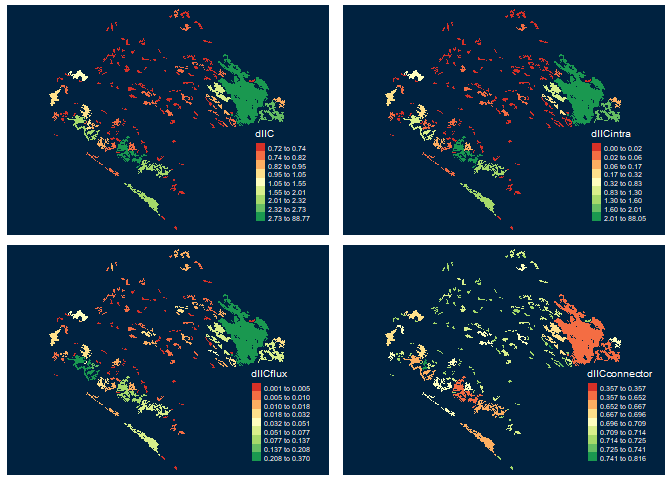
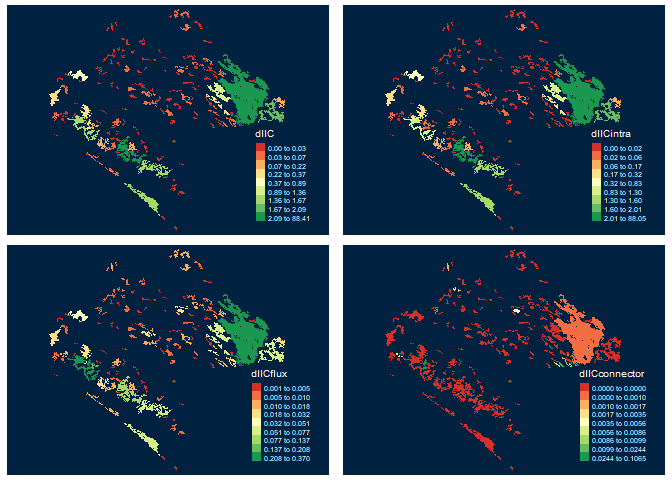
installation issue fixed

diff --git a/README.md b/README.md
@@ -50,11 +50,12 @@ Analyzing landscape connectivity.
 
 ## Installation
 
--   Depends: R (&gt; 4.0.0), igraph (&gt;= 1.2.6)
--   Pre-install
-    [Rtools](https://cran.r-project.org/bin/windows/Rtools/).
--   Pre-install devtools (<code>install.packages(“devtools”)</code>) and
-    remotes (<code>install.packages(“remotes”)</code>) packages.
+- Depends: R (\> 4.0.0), igraph (\>= 1.2.6)
+- Pre-install [Rtools](https://cran.r-project.org/bin/windows/Rtools/).
+- Pre-install devtools (<code>install.packages(“devtools”)</code>) and
+  remotes (<code>install.packages(“remotes”)</code>) packages.
+- **It is recommended to install the R igraph package (\>= 1.2.6)
+  beforehand.**
 
 You can install the released version of Makurhini from
 [GitHub](https://github.com) with:
@@ -213,17 +214,17 @@ multiple dispersion distances.
 This is a basic example which shows you how to solve some common
 problems:
 
--   [Protected Connected Land
-    (ProtConn)](#protected-connected-land-protconn)
--   [Equivalent Connectivity Area
-    (ECA)](#equivalent-connectivity-area-eca)
--   [Integral index of connectivity (IIC) and fractions (Intra, Flux and
-    Connector)](#integral-index-of-connectivity-iic-and-fractions-intra-flux-and-connector)
--   [Probability of connectivity (PC) and fractions (Intra, Flux and
-    Connector)](#probability-of-connectivity-pc-and-fractions-intra-flux-and-connector)
--   [Centrality measures](#centrality-measures) (e.g., betweenness
-    centrality, node memberships, and modularity)
--   [Fragmentation statistics](#fragmentation-statistics)
+- [Protected Connected Land
+  (ProtConn)](#protected-connected-land-protconn)
+- [Equivalent Connectivity Area
+  (ECA)](#equivalent-connectivity-area-eca)
+- [Integral index of connectivity (IIC) and fractions (Intra, Flux and
+  Connector)](#integral-index-of-connectivity-iic-and-fractions-intra-flux-and-connector)
+- [Probability of connectivity (PC) and fractions (Intra, Flux and
+  Connector)](#probability-of-connectivity-pc-and-fractions-intra-flux-and-connector)
+- [Centrality measures](#centrality-measures) (e.g., betweenness
+  centrality, node memberships, and modularity)
+- [Fragmentation statistics](#fragmentation-statistics)
 
 ### Protected Connected Land (ProtConn)
 
@@ -256,7 +257,7 @@ ProtConn value: ![](man/figures/protconn.png)
 ### Equivalent Connectivity Area (ECA)
 
 Example in the Biosphere Reserve Mariposa Monarca, Mexico, with
-old-growth vegetation fragments of four times (?list\_forest\_patches).
+old-growth vegetation fragments of four times (?list_forest_patches).
 
 ``` r
 data("list_forest_patches", package = "Makurhini")
@@ -286,7 +287,7 @@ ECA plot:
 ![](man/figures/ECAplot.png)
 
 Another way to analyze the ECA (and ProtConn indicator) is by using the
-*‘MK\_Connect\_grid()’* that estimates the index values on a grid. An
+*‘MK_Connect_grid()’* that estimates the index values on a grid. An
 example of its application is the following, on the Andean-Amazon
 Piedmont. The analysis was performed using a grid of hexagons each with
 an area of 10,000 ha and a forest/non-forest map to measure changes in
@@ -297,7 +298,7 @@ Andean-Amazon connectivity.
 ### Integral index of connectivity (IIC) and fractions (Intra, Flux and Connector)
 
 Example with 142 old-growth vegetation fragments in southeast Mexico
-(?vegetation\_patches).
+(?vegetation_patches).
 
 ``` r
 data("vegetation_patches", package = "Makurhini")
@@ -315,14 +316,14 @@ head(IIC)
 #> Geometry type: POLYGON
 #> Dimension:     XY
 #> Bounding box:  xmin: 3542152 ymin: 498183.1 xmax: 3711426 ymax: 696540.5
-#> CRS:           +proj=lcc +lat_1=17.5 +lat_2=29.5 +lat_0=12 +lon_0=-102 +x_0=2500000 +y_0=0 +datum=WGS84 +units=m +no_defs
-#>   id       dIIC    dIICintra    dIICflux dIICconnector
-#> 1  1 88.7690645 88.051222392 0.360469840     0.3573723
-#> 2  2  0.7405588  0.018141557 0.012229087     0.7101882
-#> 3  3  0.7379196  0.011944718 0.014340157     0.7116348
-#> 4  4  0.7235710  0.001153790 0.006505351     0.7159119
-#> 5  5  0.7315123  0.005537345 0.012359182     0.7136157
-#> 6  6  0.7319644  0.014122295 0.006764927     0.7110772
+#> Projected CRS: +proj=lcc +lat_1=17.5 +lat_2=29.5 +lat_0=12 +lon_0=-102 +x_0=2500000 +y_0=0 +datum=WGS84 +units=m +no_defs
+#>   id         dIIC    dIICintra    dIICflux dIICconnector
+#> 1  1 88.411692232 88.051222392 0.360469840  1.432188e-14
+#> 2  2  0.030370644  0.018141557 0.012229087  0.000000e+00
+#> 3  3  0.026284875  0.011944718 0.014340157  0.000000e+00
+#> 4  4  0.007659141  0.001153790 0.006505351  6.224188e-15
+#> 5  5  0.017896528  0.005537345 0.012359182  0.000000e+00
+#> 6  6  0.020887221  0.014122295 0.006764927  0.000000e+00
 #>                         geometry
 #> 1 POLYGON ((3676911 589967.3,...
 #> 2 POLYGON ((3558044 696202.5,...
@@ -346,14 +347,14 @@ head(PC)
 #> Geometry type: POLYGON
 #> Dimension:     XY
 #> Bounding box:  xmin: 3542152 ymin: 498183.1 xmax: 3711426 ymax: 696540.5
-#> CRS:           +proj=lcc +lat_1=17.5 +lat_2=29.5 +lat_0=12 +lon_0=-102 +x_0=2500000 +y_0=0 +datum=WGS84 +units=m +no_defs
+#> Projected CRS: +proj=lcc +lat_1=17.5 +lat_2=29.5 +lat_0=12 +lon_0=-102 +x_0=2500000 +y_0=0 +datum=WGS84 +units=m +no_defs
 #>   id          dPC     dPCintra      dPCflux dPCconnector
 #> 1  1 89.076871365 89.076092740 7.786254e-04 0.000000e+00
-#> 2  2  0.019279012  0.018352716 9.262961e-04 8.369065e-15
+#> 2  2  0.019279012  0.018352716 9.262961e-04 0.000000e+00
 #> 3  3  0.013665190  0.012083748 1.581442e-03 0.000000e+00
-#> 4  4  0.001752818  0.001167219 5.855988e-04 0.000000e+00
-#> 5  5  0.006952601  0.005601797 1.350804e-03 4.227304e-15
-#> 6  6  0.014339722  0.014286671 5.305105e-05 6.214511e-16
+#> 4  4  0.001752818  0.001167219 5.855988e-04 2.907613e-15
+#> 5  5  0.006952601  0.005601797 1.350804e-03 5.138034e-15
+#> 6  6  0.014339722  0.014286671 5.305105e-05 1.560214e-15
 #>                         geometry
 #> 1 POLYGON ((3676911 589967.3,...
 #> 2 POLYGON ((3558044 696202.5,...
@@ -378,16 +379,16 @@ head(centrality_test)
 #> Geometry type: POLYGON
 #> Dimension:     XY
 #> Bounding box:  xmin: 3542152 ymin: 498183.1 xmax: 3711426 ymax: 696540.5
-#> CRS:           +proj=lcc +lat_1=17.5 +lat_2=29.5 +lat_0=12 +lon_0=-102 +x_0=2500000 +y_0=0 +datum=WGS84 +units=m +no_defs
-#> # A tibble: 6 x 8
-#>      id degree eigen    close   BWC cluster modules                     geometry
-#>   <int>  <dbl> <dbl>    <dbl> <dbl>   <dbl>   <dbl>                <POLYGON [m]>
-#> 1     1      0     0  4.99e-5     0       1       1 ((3676911 589967.3, 3676931~
-#> 2     2      1     0  5.03e-5     0       2       2 ((3558044 696202.5, 3557972~
-#> 3     3      1     0  5.03e-5     0       3       3 ((3569169 687776.4, 3569146~
-#> 4     4      1     0  5.03e-5     0       2       2 ((3547317 685713.2, 3547363~
-#> 5     5      1     0  5.03e-5     0       3       3 ((3567471 684357.4, 3567380~
-#> 6     6      0     0  4.99e-5     0       4       4 ((3590569 672451.7, 3590090~
+#> Projected CRS: +proj=lcc +lat_1=17.5 +lat_2=29.5 +lat_0=12 +lon_0=-102 +x_0=2500000 +y_0=0 +datum=WGS84 +units=m +no_defs
+#> # A tibble: 6 × 8
+#>      id degree    eigen close   BWC cluster modules                     geometry
+#>   <int>  <dbl>    <dbl> <dbl> <dbl>   <dbl>   <dbl>                <POLYGON [m]>
+#> 1     1      0 0          NaN     0       1       1 ((3676911 589967.3, 3676931…
+#> 2     2      1 1.13e-16     1     0       2       2 ((3558044 696202.5, 3557972…
+#> 3     3      1 1.36e-16     1     0       3       3 ((3569169 687776.4, 3569146…
+#> 4     4      1 1.36e-16     1     0       2       2 ((3547317 685713.2, 3547363…
+#> 5     5      1 1.36e-16     1     0       3       3 ((3567471 684357.4, 3567380…
+#> 6     6      0 0          NaN     0       4       4 ((3590569 672451.7, 3590090…
 ```
 
 Examples:
@@ -399,19 +400,18 @@ Moreover, you can change distance using the distance
 
 Euclidean distances:
 
--   distance = list(type= “centroid”)
--   distance = list(type= “edge”)
+- distance = list(type= “centroid”)
+- distance = list(type= “edge”)
 
 Least cost distances:
 
--   distance = list(type= “least-cost”, resistance = “resistance
-    raster”)
--   distance = list(type= “commute-time”, resistance = “resistance
-    raster”)
+- distance = list(type= “least-cost”, resistance = “resistance raster”)
+- distance = list(type= “commute-time”, resistance = “resistance
+  raster”)
 
 ### Fragmentation statistics
 
-*‘MK\_Fragmentation()’* estimates fragmentation statistics at the
+*‘MK_Fragmentation()’* estimates fragmentation statistics at the
 landscape and patch level.
 
 Example:
@@ -436,9 +436,9 @@ Fragmentation_test <- MK_Fragmentation(patches = vegetation_patches, edge_distan
 
 <img src="man/figures/README-unnamed-chunk-16-1.png" width="60%" /><img src="man/figures/README-unnamed-chunk-16-2.png" width="60%" />
 
--   The results are presented as a list, the first result is called
-    *“Summary landscape metrics (Viewer Panel)”* and it has
-    fragmentation statistics at landscape level.
+- The results are presented as a list, the first result is called
+  *“Summary landscape metrics (Viewer Panel)”* and it has fragmentation
+  statistics at landscape level.
 
 ``` r
 class(Fragmentation_test)
@@ -487,7 +487,7 @@ Size (mean)
 </tr>
 <tr>
 <td style="text-align:left;">
-Patches &lt; minimum patch area
+Patches \< minimum patch area
 </td>
 <td style="text-align:center;">
 126.0000
@@ -495,7 +495,7 @@ Patches &lt; minimum patch area
 </tr>
 <tr>
 <td style="text-align:left;">
-Patches &lt; minimum patch area (%)
+Patches \< minimum patch area (%)
 </td>
 <td style="text-align:center;">
 30.8017
@@ -560,10 +560,10 @@ MESH (km2)
 </tbody>
 </table>
 
--   The second output *“Patch statistics shapefile”* is a shapefile with
-    patch level fragmentation statistics that can be saved using
-    write\_sf() from *‘sf’* package
-    (<https://cran.r-project.org/web/packages/sf/index.html>).
+- The second output *“Patch statistics shapefile”* is a shapefile with
+  patch level fragmentation statistics that can be saved using
+  write_sf() from *‘sf’* package
+  (<https://cran.r-project.org/web/packages/sf/index.html>).
 
 ``` r
 head(Fragmentation_test[[2]])
@@ -571,7 +571,7 @@ head(Fragmentation_test[[2]])
 #> Geometry type: POLYGON
 #> Dimension:     XY
 #> Bounding box:  xmin: 3542152 ymin: 498183.1 xmax: 3711426 ymax: 696540.5
-#> CRS:           +proj=lcc +lat_1=17.5 +lat_2=29.5 +lat_0=12 +lon_0=-102 +x_0=2500000 +y_0=0 +datum=WGS84 +units=m +no_defs
+#> Projected CRS: +proj=lcc +lat_1=17.5 +lat_2=29.5 +lat_0=12 +lon_0=-102 +x_0=2500000 +y_0=0 +datum=WGS84 +units=m +no_defs
 #>   id      Area        CA CAPercent Perimeter EdgePercent   PARA ShapeIndex
 #> 1  1 4195.5691 3541.3806   84.4076  1412.046     15.5924 2.9713  8212.7666
 #> 2  2   60.2227   11.9415   19.8289   167.982     80.1711 0.3585   117.0545
@@ -591,9 +591,9 @@ head(Fragmentation_test[[2]])
 <img src="man/figures/README-unnamed-chunk-19-1.png" width="100%" />
 
 We can make a loop where we explore different edge depths. In the
-following example, We will explore 10 edge depths (*edge\_distance
+following example, We will explore 10 edge depths (*edge_distance
 argument*): 100, 200, 300, 400, 500, 600, 700, 800, 900 and 1000 meters.
-We will apply the *‘MK\_Fragmentation’* function using the previous
+We will apply the *‘MK_Fragmentation’* function using the previous
 distances and then, we will extract the core area percentage and edge
 percentage statistics. Finally, we will plot the average of the patch
 core area percentage and edge percentage (% core area + % edge = 100%).
